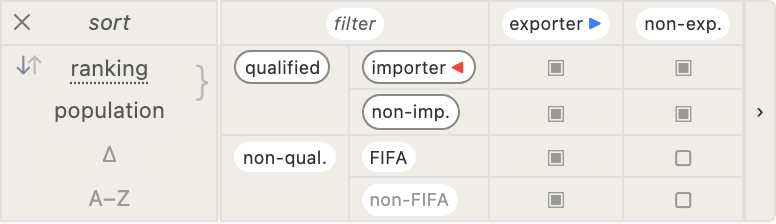
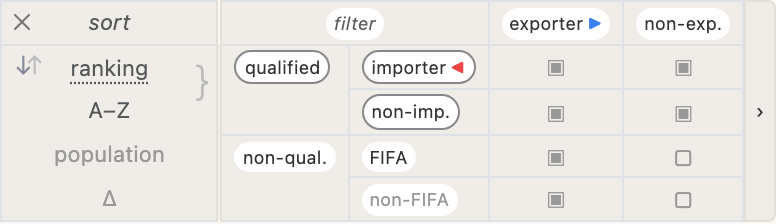
feat(guide): multi-language screenshots for control sidebar
build_guide.py now launches one Playwright context per locale (en-US,
fr-FR, de-DE, it-IT, es-ES), capturing control_sidebar-{lang}.png for
each. The build step substitutes the localized path in each translated
output file; English keeps control_sidebar.png via symlink.

Changed region(s): [[0.0619, 0.6562, 0.2165, 0.75], [0.0619, 0.4375, 0.2165, 0.5312], [0.0928, 0.8438, 0.1856, 0.9375]]

diff --git a/guide/build_guide.py b/guide/build_guide.py
@@ -37,6 +37,15 @@ GUIDES = {
     'auth':   GUIDE_DIR / 'guide-auth.md',
 }
 
+# Language → Playwright locale
+LOCALES = [
+    ('en', 'en-US'),
+    ('fr', 'fr-FR'),
+    ('de', 'de-DE'),
+    ('it', 'it-IT'),
+    ('es', 'es-ES'),
+]
+
 MARKER_RE = re.compile(
     r'(<!-- i18n:(\w+) -->)(.*?)(<!-- /i18n:\2 -->)',
     re.DOTALL,
@@ -44,6 +53,11 @@ MARKER_RE = re.compile(
 
 
 # ── Screenshots ──────────────────────────────────────────────────────────────
+
+def _screenshot_name(lang):
+    """Return the filename for a language's control_sidebar screenshot."""
+    return 'control_sidebar.png' if lang == 'en' else f'control_sidebar-{lang}.png'
+
 
 def take_screenshots():
     try:
@@ -56,22 +70,28 @@ def take_screenshots():
     SCREENSHOTS.mkdir(exist_ok=True)
     with sync_playwright() as p:
         browser = p.chromium.launch()
-        page = browser.new_page(viewport={'width': 1280, 'height': 800}, device_scale_factor=2)
-        page.goto(
-            f'{BASE_URL}/wc2026_map_exported.html',
-            wait_until='networkidle',
-            timeout=30_000,
-        )
-        page.wait_for_timeout(3_000)
+        for lang, locale in LOCALES:
+            context = browser.new_context(
+                viewport={'width': 1280, 'height': 800},
+                device_scale_factor=2,
+                locale=locale,
+            )
+            page = context.new_page()
+            page.goto(
+                f'{BASE_URL}/wc2026_map_exported.html',
+                wait_until='networkidle',
+                timeout=30_000,
+            )
+            page.wait_for_timeout(3_000)
 
-        # ── control_sidebar ──
-        page.locator('.csb-toggle').click()
-        page.wait_for_timeout(700)  # CSS transition
-        page.locator('#control-sidebar').screenshot(
-            path=str(SCREENSHOTS / 'control_sidebar.png')
-        )
-        print('  ✓ screenshots/control_sidebar.png')
+            page.locator('.csb-toggle').click()
+            page.wait_for_timeout(700)  # CSS transition
 
+            name = _screenshot_name(lang)
+            page.locator('#control-sidebar').screenshot(path=str(SCREENSHOTS / name))
+            print(f'  ✓ screenshots/{name}  [{locale}]')
+
+            context.close()
         browser.close()
 
 
@@ -88,6 +108,15 @@ def _resolve(value):
     return str(value)
 
 
+def _localize_screenshots(text, lang):
+    """Replace screenshot paths with language-specific versions where they exist."""
+    localized = f'control_sidebar-{lang}.png'
+    if (SCREENSHOTS / localized).exists():
+        text = text.replace('screenshots/control_sidebar.png',
+                            f'screenshots/{localized}')
+    return text
+
+
 def build_languages():
     BUILT.mkdir(exist_ok=True)
 
@@ -102,9 +131,6 @@ def build_languages():
         template = template_path.read_text(encoding='utf-8')
         all_keys = MARKER_RE.findall(template)
         total    = len(all_keys)
-
-        # Build a map of key → source block content for drift detection
-        source_blocks = {key: body for _, key, body, _ in all_keys}
 
         # English: symlink to source so edits are reflected instantly without a rebuild
         dest = BUILT / f'en-{section}.md'
@@ -126,6 +152,7 @@ def build_languages():
                 return m.group(0)
 
             result       = MARKER_RE.sub(replace, template)
+            result       = _localize_screenshots(result, lang)
             n_translated = sum(1 for _, key, _, _ in all_keys if key in translations)
             (BUILT / f'{lang}-{section}.md').write_text(result, encoding='utf-8')
             status = f'  ✓ built/{lang}-{section}.md  ({n_translated}/{total} keys translated)'

diff --git a/guide/built/de-home.md b/guide/built/de-home.md
@@ -25,7 +25,7 @@ Drücken und halten Sie (oder halten Sie die Maustaste gedrückt) auf ein Zitat,
 Die Schaltfläche <kbd style="background:var(--bg-hover,#f0ede8);border:1px solid var(--border,#e4e0d8);color:var(--text-muted,#999);border-radius:0 4px 4px 0">‹</kbd> in der oberen rechten Ecke der Kopfzeile öffnet das Filter- und Sortierpanel,
 das steuert, was auf der Karte und in der Länderliste erscheint.
 
-![Filter- und Sortierpanel](screenshots/control_sidebar.png)
+![Filter- und Sortierpanel](screenshots/control_sidebar-de.png)
 
 *Filtermatrix (rechts) — auf einen Zeilen- oder Spaltenkopf klicken, um eine ganze Gruppe auf einmal umzuschalten.*<br>*Sortierspalte (links) — nur die obersten zwei Kriterien sind aktiv; ein Klick auf ein Kriterium verschiebt es an die erste Stelle.*
 

diff --git a/guide/built/es-home.md b/guide/built/es-home.md
@@ -25,7 +25,7 @@ Mantén presionado (o mantén el botón del ratón pulsado) sobre una cita para 
 El botón <kbd style="background:var(--bg-hover,#f0ede8);border:1px solid var(--border,#e4e0d8);color:var(--text-muted,#999);border-radius:0 4px 4px 0">‹</kbd> en la esquina superior derecha del encabezado abre el panel de filtro y ordenación,
 para controlar lo que aparece en el mapa y en la lista de países.
 
-![Panel de filtro y ordenación](screenshots/control_sidebar.png)
+![Panel de filtro y ordenación](screenshots/control_sidebar-es.png)
 
 *Matriz de filtro (derecha) — haz clic en un encabezado de fila o columna para alternar todo un grupo a la vez.*<br>*Columna de ordenación (izquierda) — solo los dos primeros criterios están activos; hacer clic en un criterio lo mueve al inicio de la lista.*
 

diff --git a/guide/built/fr-home.md b/guide/built/fr-home.md
@@ -25,7 +25,7 @@ Maintenez appuyé (ou gardez le bouton de la souris enfoncé) sur une citation p
 Le bouton <kbd style="background:var(--bg-hover,#f0ede8);border:1px solid var(--border,#e4e0d8);color:var(--text-muted,#999);border-radius:0 4px 4px 0">‹</kbd> dans le coin supérieur droit de l'en-tête ouvre le panneau de filtre et de tri,
 pour contrôler ce qui apparaît sur la carte et dans la liste des pays.
 
-![Panneau de filtre et de tri](screenshots/control_sidebar.png)
+![Panneau de filtre et de tri](screenshots/control_sidebar-fr.png)
 
 *Matrice de filtre (droite) — cliquez sur un en-tête de ligne ou de colonne pour basculer tout un groupe d'un coup.*<br>*Colonne de tri (gauche) — seuls les deux premiers critères sont actifs ; cliquer sur un critère le place en tête de liste.*
 

diff --git a/guide/built/it-home.md b/guide/built/it-home.md
@@ -25,7 +25,7 @@ Tieni premuto (o tieni premuto il pulsante del mouse) su una citazione per rivel
 Il pulsante <kbd style="background:var(--bg-hover,#f0ede8);border:1px solid var(--border,#e4e0d8);color:var(--text-muted,#999);border-radius:0 4px 4px 0">‹</kbd> nell'angolo in alto a destra dell'intestazione apre il pannello di filtro e ordinamento,
 per controllare cosa appare sulla mappa e nell'elenco dei paesi.
 
-![Pannello di filtro e ordinamento](screenshots/control_sidebar.png)
+![Pannello di filtro e ordinamento](screenshots/control_sidebar-it.png)
 
 *Matrice di filtro (destra) — clicca su un'intestazione di riga o colonna per attivare/disattivare un intero gruppo in una volta.*<br>*Colonna di ordinamento (sinistra) — solo i primi due criteri sono attivi; fare clic su un criterio lo sposta in cima alla lista.*
 